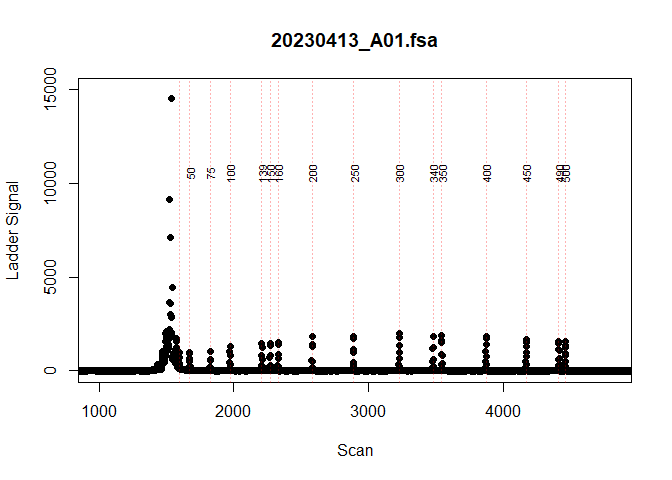
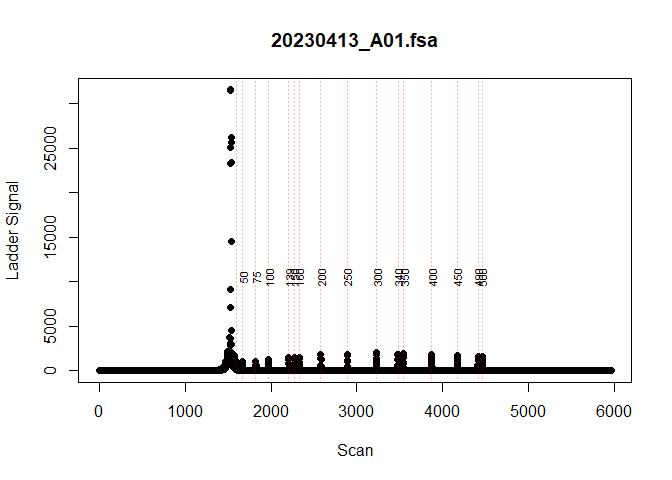
updated readme

diff --git a/README.md b/README.md
@@ -3,7 +3,7 @@
 
 This package provides a pipeline for short tandem repeat instability
 analysis from fragment analysis data. The inputs are fsa files or peak
-tables (eg Genemapper5 software output), and a user supplied metadata
+tables (eg Genemapper 5 software output), and a user supplied metadata
 data-frame. The functions identify ladders, calls peaks, and calculates
 repeat instability metrics (ie expansion index or average repeat gain).
 
@@ -35,7 +35,7 @@ experiment and things to consider when using this package:
   time-course experiment. This is indicated with a `TRUE` in the
   `metrics_baseline_control` column of the metadata. For mice, if just a
   few samples have the inherited repeat height shorter than the expanded
-  population, you could not worry about this an instead use the
+  population, you could not worry about this and instead use the
   `index_override_dataframe` in `calculate_instability_metrics()`
 
 - (optional) Using a common sample of known repeat length to correct
@@ -76,9 +76,8 @@ library(instability)
 # Import data
 
 First, we read in the raw data. In this case we will used example data
-within this package, but usually this would be either be fsa files that
-are read in using instability::read_fsa(), raw genemapper output or a
-peak table from another source (e.g. the Fragman R package)
+within this package, but usually this would be fsa files that are read
+in using `read_fsa()`.
 
 ``` r
 fsa_raw <- instability::cell_line_fsa_list
@@ -98,28 +97,22 @@ and the predicted sizes are averaged.
 
 ``` r
 ladder_list <- find_ladders(cell_line_fsa_list,
-  ladder_channel = "DATA.105",
-  signal_channel = "DATA.1"
+  show_progress_bar = FALSE
 )
-#>   |                                                                              |                                                                      |   0%  |                                                                              |=                                                                     |   1%  |                                                                              |                                                                      |   0%  |                                                                              |==                                                                    |   2%  |                                                                              |                                                                      |   0%  |                                                                              |==                                                                    |   3%  |                                                                              |                                                                      |   0%  |                                                                              |===                                                                   |   4%  |                                                                              |                                                                      |   0%  |                                                                              |====                                                                  |   5%  |                                                                              |                                                                      |   0%  |                                                                              |=====                                                                 |   7%  |                                                                              |                                                                      |   0%  |                                                                              |=====                                                                 |   8%  |                                                                              |                                                                      |   0%  |                                                                              |======                                                                |   9%  |                                                                              |                                                                      |   0%  |                                                                              |=======                                                               |  10%  |                                                                              |                                                                      |   0%  |                                                                              |========                                                              |  11%  |                                                                              |                                                                      |   0%  |                                                                              |========                                                              |  12%  |                                                                              |                                                                      |   0%  |                                                                              |=========                                                             |  13%  |                                                                              |                                                                      |   0%  |                                                                              |==========                                                            |  14%  |                                                                              |                                                                      |   0%  |                                                                              |===========                                                           |  15%  |                                                                              |                                                                      |   0%  |                                                                              |===========                                                           |  16%  |                                                                              |                                                                      |   0%  |                                                                              |============                                                          |  17%  |                                                                              |                                                                      |   0%  |                                                                              |=============                                                         |  18%  |                                                                              |                                                                      |   0%  |                                                                              |==============                                                        |  20%  |                                                                              |                                                                      |   0%  |                                                                              |==============                                                        |  21%  |                                                                              |                                                                      |   0%  |                                                                              |===============                                                       |  22%  |                                                                              |                                                                      |   0%  |                                                                              |================                                                      |  23%  |                                                                              |                                                                      |   0%  |                                                                              |=================                                                     |  24%  |                                                                              |                                                                      |   0%  |                                                                              |==================                                                    |  25%  |                                                                              |                                                                      |   0%  |                                                                              |==================                                                    |  26%  |                                                                              |                                                                      |   0%  |                                                                              |===================                                                   |  27%  |                                                                              |                                                                      |   0%  |                                                                              |====================                                                  |  28%  |                                                                              |                                                                      |   0%  |                                                                              |=====================                                                 |  29%  |                                                                              |                                                                      |   0%  |                                                                              |=====================                                                 |  30%  |                                                                              |                                                                      |   0%  |                                                                              |======================                                                |  32%  |                                                                              |                                                                      |   0%  |                                                                              |=======================                                               |  33%  |                                                                              |                                                                      |   0%  |                                                                              |========================                                              |  34%  |                                                                              |                                                                      |   0%  |                                                                              |========================                                              |  35%  |                                                                              |                                                                      |   0%  |                                                                              |=========================                                             |  36%  |                                                                              |                                                                      |   0%  |                                                                              |==========================                                            |  37%  |                                                                              |                                                                      |   0%  |                                                                              |===========================                                           |  38%  |                                                                              |                                                                      |   0%  |                                                                              |===========================                                           |  39%  |                                                                              |                                                                      |   0%  |                                                                              |============================                                          |  40%  |                                                                              |                                                                      |   0%  |                                                                              |=============================                                         |  41%  |                                                                              |                                                                      |   0%  |                                                                              |==============================                                        |  42%  |                                                                              |                                                                      |   0%  |                                                                              |==============================                                        |  43%  |                                                                              |                                                                      |   0%  |                                                                              |===============================                                       |  45%  |                                                                              |                                                                      |   0%  |                                                                              |================================                                      |  46%  |                                                                              |                                                                      |   0%  |                                                                              |=================================                                     |  47%  |                                                                              |                                                                      |   0%  |                                                                              |=================================                                     |  48%  |                                                                              |                                                                      |   0%  |                                                                              |==================================                                    |  49%  |                                                                              |                                                                      |   0%  |                                                                              |===================================                                   |  50%  |                                                                              |                                                                      |   0%  |                                                                              |====================================                                  |  51%  |                                                                              |                                                                      |   0%  |                                                                              |=====================================                                 |  52%  |                                                                              |                                                                      |   0%  |                                                                              |=====================================                                 |  53%  |                                                                              |                                                                      |   0%  |                                                                              |======================================                                |  54%  |                                                                              |                                                                      |   0%  |                                                                              |=======================================                               |  55%  |                                                                              |                                                                      |   0%  |                                                                              |========================================                              |  57%  |                                                                              |                                                                      |   0%  |                                                                              |========================================                              |  58%  |                                                                              |                                                                      |   0%  |                                                                              |=========================================                             |  59%  |                                                                              |                                                                      |   0%  |                                                                              |==========================================                            |  60%  |                                                                              |                                                                      |   0%  |                                                                              |===========================================                           |  61%  |                                                                              |                                                                      |   0%  |                                                                              |===========================================                           |  62%  |                                                                              |                                                                      |   0%  |                                                                              |============================================                          |  63%  |                                                                              |                                                                      |   0%  |                                                                              |=============================================                         |  64%  |                                                                              |                                                                      |   0%  |                                                                              |==============================================                        |  65%  |                                                                              |                                                                      |   0%  |                                                                              |==============================================                        |  66%  |                                                                              |                                                                      |   0%  |                                                                              |===============================================                       |  67%  |                                                                              |                                                                      |   0%  |                                                                              |================================================                      |  68%  |                                                                              |                                                                      |   0%  |                                                                              |=================================================                     |  70%  |                                                                              |                                                                      |   0%  |                                                                              |=================================================                     |  71%  |                                                                              |                                                                      |   0%  |                                                                              |==================================================                    |  72%  |                                                                              |                                                                      |   0%  |                                                                              |===================================================                   |  73%  |                                                                              |                                                                      |   0%  |                                                                              |====================================================                  |  74%  |                                                                              |                                                                      |   0%  |                                                                              |====================================================                  |  75%  |                                                                              |                                                                      |   0%  |                                                                              |=====================================================                 |  76%  |                                                                              |                                                                      |   0%  |                                                                              |======================================================                |  77%  |                                                                              |                                                                      |   0%  |                                                                              |=======================================================               |  78%  |                                                                              |                                                                      |   0%  |                                                                              |========================================================              |  79%  |                                                                              |                                                                      |   0%  |                                                                              |========================================================              |  80%  |                                                                              |                                                                      |   0%  |                                                                              |=========================================================             |  82%  |                                                                              |                                                                      |   0%  |                                                                              |==========================================================            |  83%  |                                                                              |                                                                      |   0%  |                                                                              |===========================================================           |  84%  |                                                                              |                                                                      |   0%  |                                                                              |===========================================================           |  85%  |                                                                              |                                                                      |   0%  |                                                                              |============================================================          |  86%  |                                                                              |                                                                      |   0%  |                                                                              |=============================================================         |  87%  |                                                                              |                                                                      |   0%  |                                                                              |==============================================================        |  88%  |                                                                              |                                                                      |   0%  |                                                                              |==============================================================        |  89%  |                                                                              |                                                                      |   0%  |                                                                              |===============================================================       |  90%  |                                                                              |                                                                      |   0%  |                                                                              |================================================================      |  91%  |                                                                              |                                                                      |   0%  |                                                                              |=================================================================     |  92%  |                                                                              |                                                                      |   0%  |                                                                              |=================================================================     |  93%  |                                                                              |                                                                      |   0%  |                                                                              |==================================================================    |  95%  |                                                                              |                                                                      |   0%  |                                                                              |===================================================================   |  96%  |                                                                              |                                                                      |   0%  |                                                                              |====================================================================  |  97%  |                                                                              |                                                                      |   0%  |                                                                              |====================================================================  |  98%  |                                                                              |                                                                      |   0%  |                                                                              |===================================================================== |  99%  |                                                                              |                                                                      |   0%  |                                                                              |======================================================================| 100%
 ```
 
 visually inspect each ladder to make sure that the ladders were
 correctly assigned
 
 ``` r
-plot_ladders(ladder_list[1],
-  n_facet_col = 1,
-  xlim = c(1000, 4800),
-  ylim = c(0, 15000)
-)
+plot_ladders(ladder_list[1])
 ```
 
 <img src="man/figures/README-plot_ladders-1.png" width="100%" />
 
 If the ladders are are not assigned correctly, you can either try
 fix_ladders_auto() (optimal for when just a single ladder peak is
-wrong), or manually using the fix_ladders_interactive() app.
+wrong), or manually using the built-in fix_ladders_interactive() app.
 
 ![](man/figures/ladder_fixing.gif)
 
@@ -138,7 +131,6 @@ correctly assigned.
 
 ``` r
 plot_traces(peak_list[1],
-  n_facet_col = 1,
   xlim = c(400, 550),
   ylim = c(0, 1200)
 )
@@ -181,11 +173,10 @@ need to match up which column name belongs to which metadata category
 | size_standard_repeat_length | This is related to size_standard. If the sample is a size standard, provide a numeric value of the modal repeat length.                                                                                                                                                                                         |
 
 ``` r
-metadata <- instability::metadata
 
 metadata_added_list <- add_metadata(
   fragments_list = peak_list,
-  metadata_data.frame = metadata,
+  metadata_data.frame = instability::metadata,
   unique_id = "unique_id",
   group_id = "cell_line",
   metrics_baseline_control = "metrics_baseline_control_TF",
@@ -202,8 +193,7 @@ base pair fragments to repeats with `call_repeats(`).
 
 ``` r
 alleles_list <- find_alleles(
-  fragments_list = metadata_added_list,
-  number_of_peaks_to_return = 1
+  fragments_list = metadata_added_list
 )
 
 
@@ -247,7 +237,7 @@ allows us to set `grouped = TRUE` and set the index peak (the modal
 repeat size at the start of the experiment, or inherited repeat length
 in the case of mice) for the expansion index and other metrics. For
 mice, if just a few samples have the inherited repeat height shorter
-than the expanded population, you could not worry about this an instead
+than the expanded population, you could not worry about this and instead
 use the `index_override_dataframe` in `calculate_instability_metrics()`.
 
 ``` r
